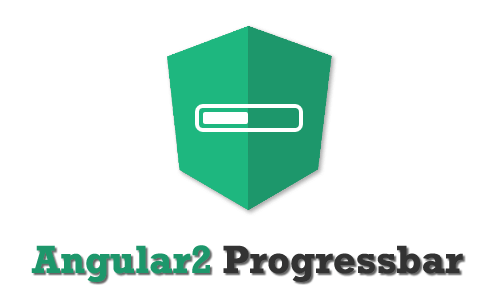
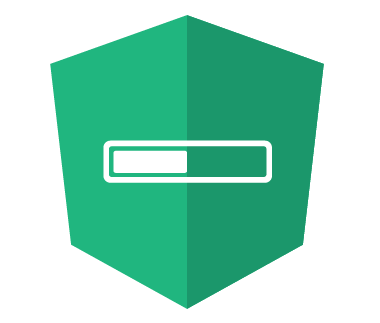
fix issues link

diff --git a/src/components/progress/progress.component.ts b/src/components/progress/progress.component.ts
@@ -13,6 +13,7 @@ import {NgProgressService} from "../../service/progress.service";
 
 export class ProgressComponent implements OnChanges {
 
+  progress: NgProgressService;
   /** Progress options  */
   @Input() ease = 'linear';
   @Input() positionUsing = 'margin';
@@ -26,7 +27,8 @@ export class ProgressComponent implements OnChanges {
   /** Start/Stop Progressbar */
   @Input() toggle;
 
-  constructor(private progress: NgProgressService) {
+  constructor(progress: NgProgressService) {
+    this.progress = progress;
   }
 
   ngOnChanges(changes: SimpleChanges) {

diff --git a/example/src/app/header/header.component.ts b/example/src/app/header/header.component.ts
@@ -7,7 +7,7 @@ import {Component, ChangeDetectionStrategy} from '@angular/core';
 })
 export class HeaderComponent {
 
-  logo = prefixRepo('../assets/img/ng-progress-logo.png');
+  logo = prefixRepo('../assets/img/logo.svg');
 
 }
 

diff --git a/README.md b/README.md
@@ -132,7 +132,7 @@ constructor(private pService: NgProgressService) {
 <a name="issues"/>
 ## Issues
 
-If you identify any errors in the library, or have an idea for an improvement, please open an [issue](https://github.com/MurhafSousli/ng2-wp-api/issues). I am excited to see what the community thinks of this project, and I would love your input!
+If you identify any errors in the library, or have an idea for an improvement, please open an [issue](https://github.com/MurhafSousli/ng2-progressbar/issues). I am excited to see what the community thinks of this project, and I would love your input!
 
 <a name="author"/>
 ## Author
